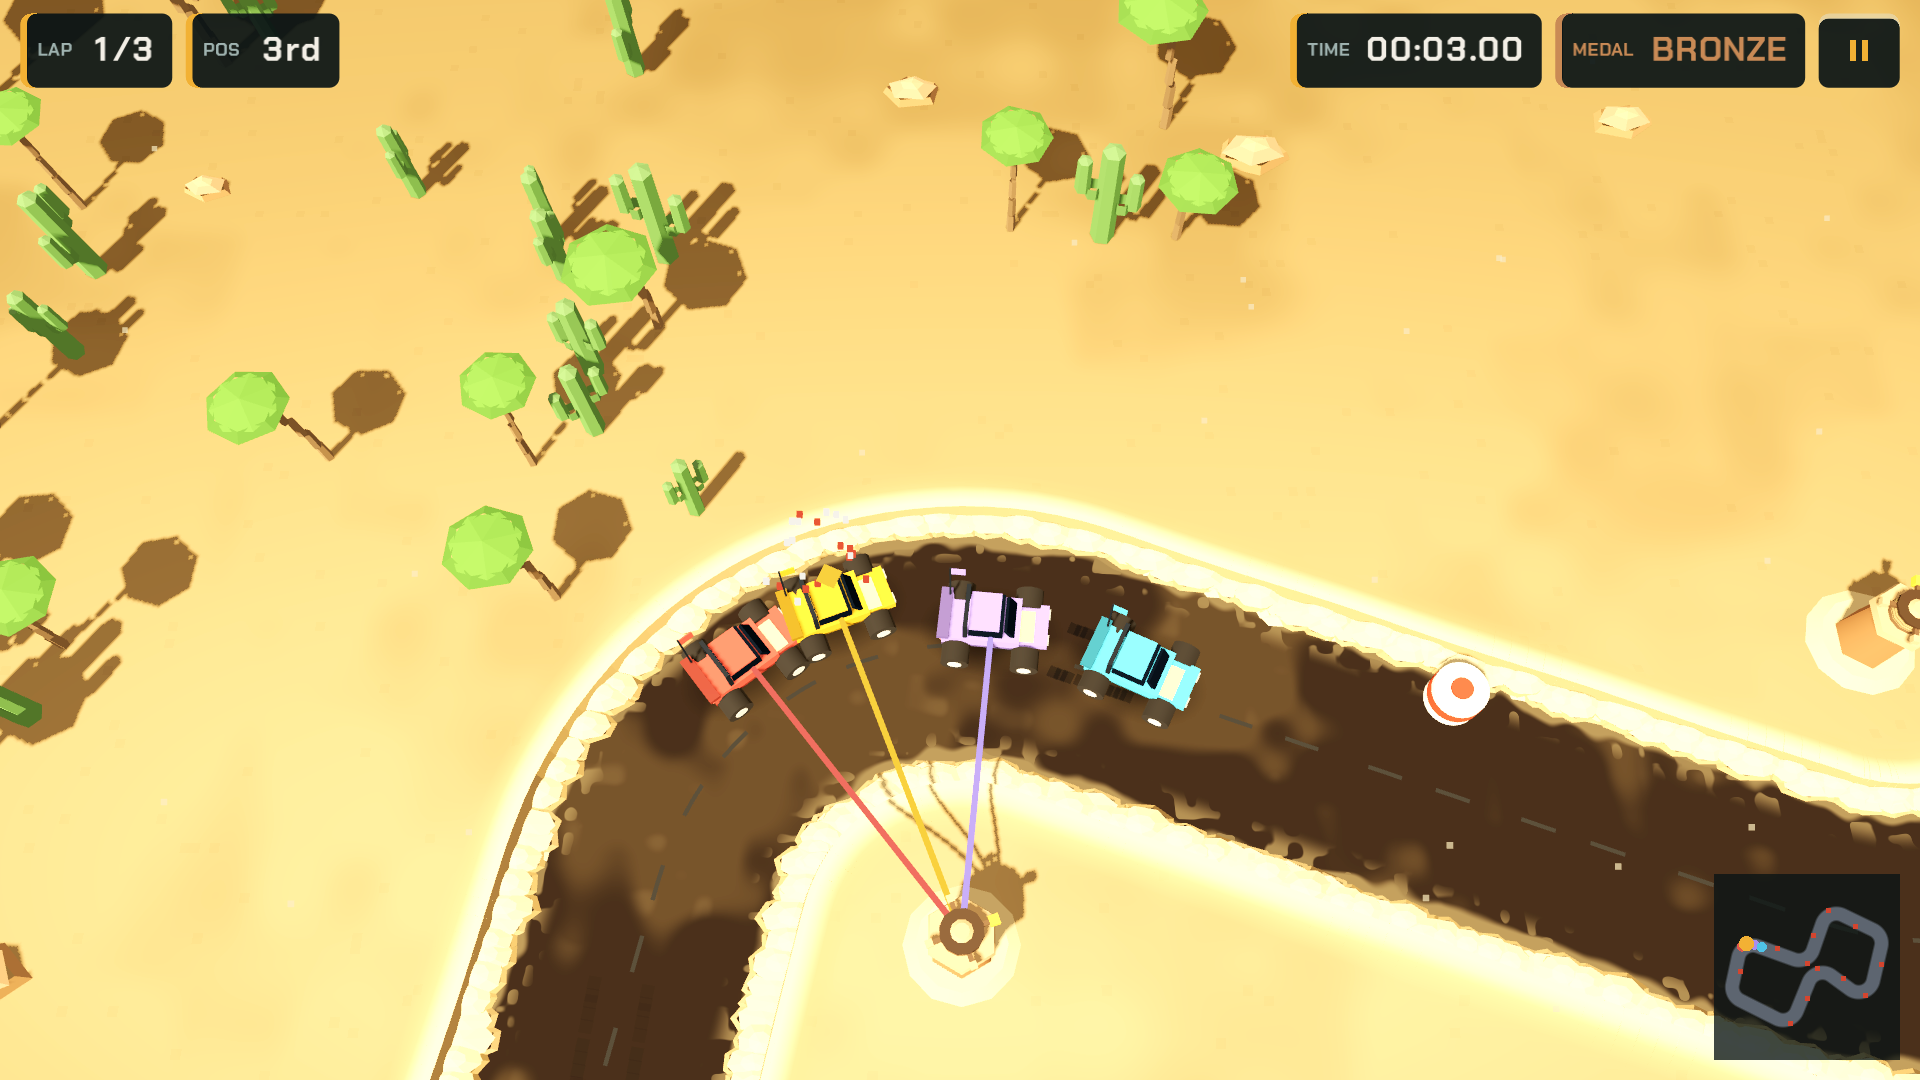
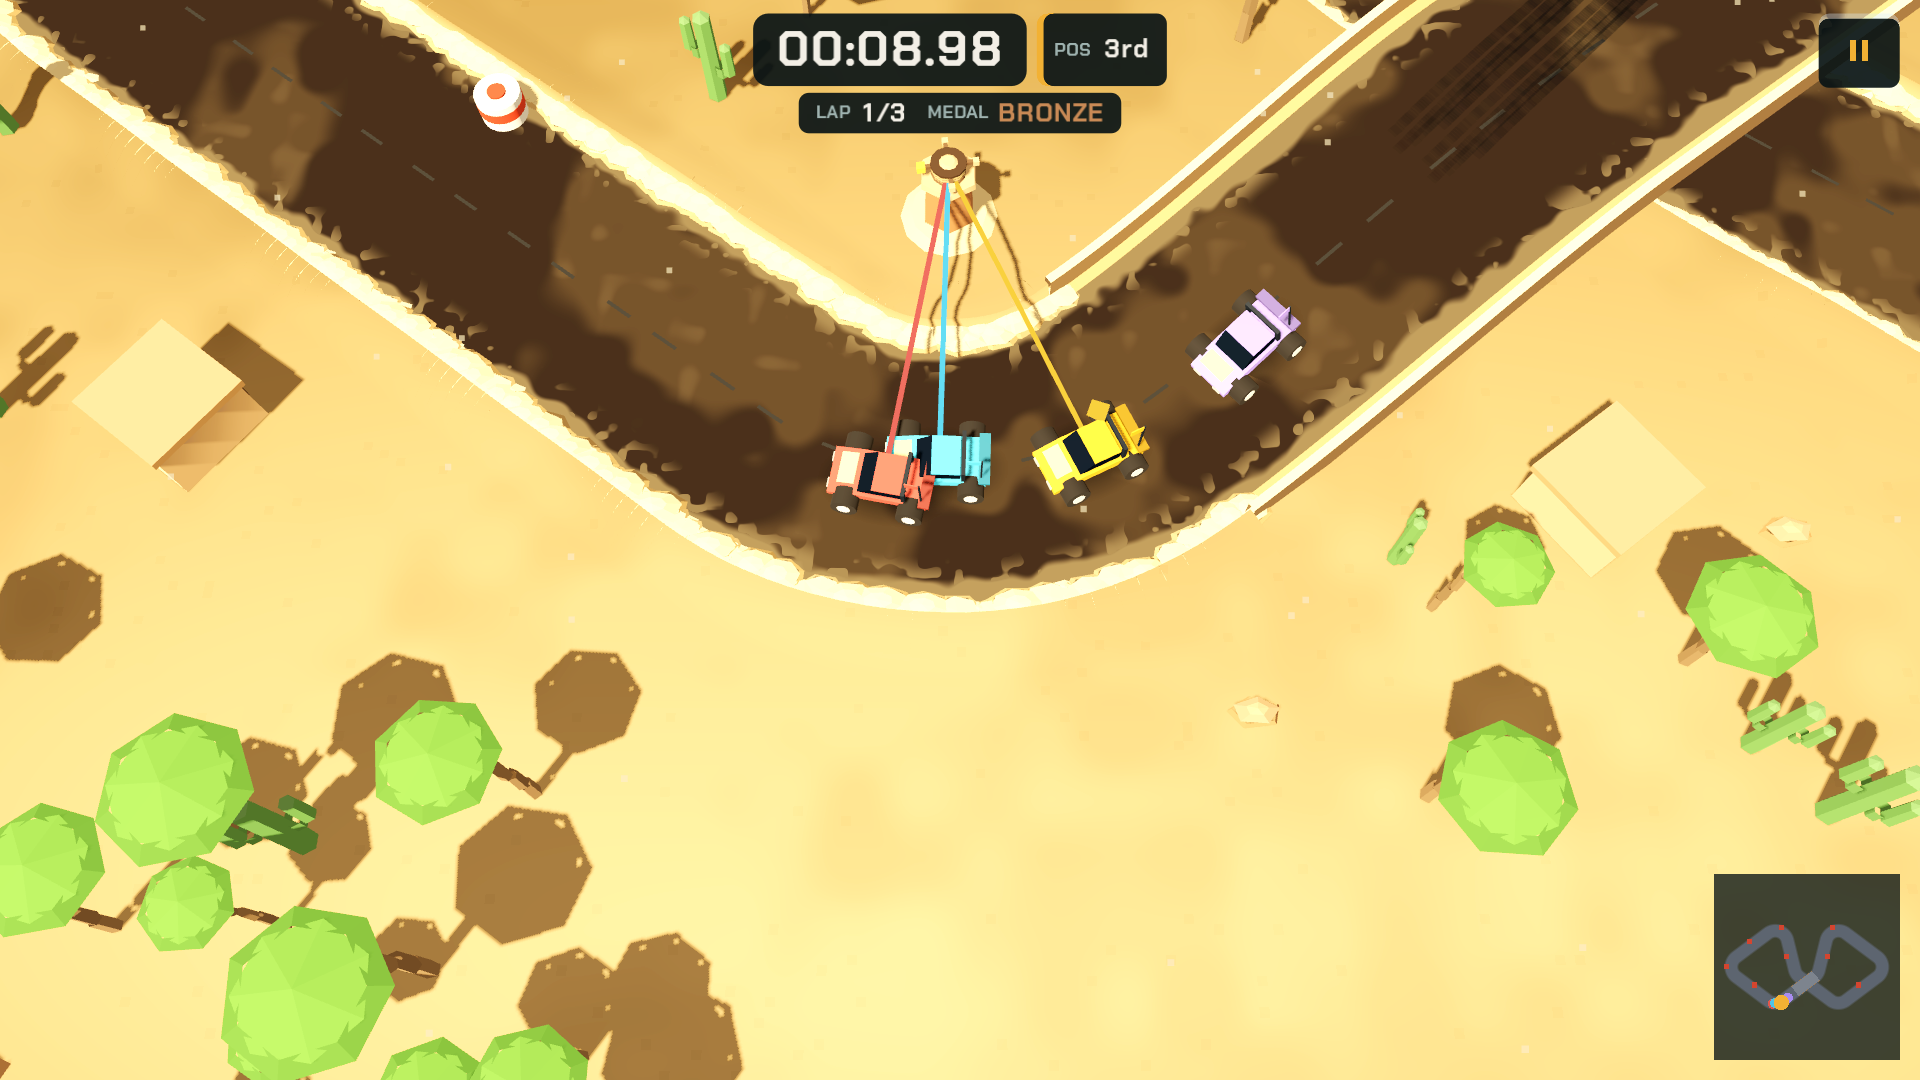
Re-capture Play Store and README screenshots from current main
Shows the wider tracks, seamless banks, compact centre-timer HUD and the
new car shapes. One shot per theme (snow race, forest time trial, sand
obstacles, rock collect), a 2-player race and the campaign world list.
store/README.md now lists the exact --demo commands to re-run them.

Claude-Session: https://claude.ai/code/session_01VxP4fpUj7RonUipZUqbZpJ

diff --git a/store/README.md b/store/README.md
@@ -7,3 +7,27 @@ Google Play listing assets for Tether Racing. Not part of the game (this folder 
 - `screenshots/`: 1920x1080 in-game screenshots (16:9, within Play's 2:1 limit), captured with the `--demo` autopilot.
 
 The Android launcher icons (legacy 192px plus adaptive foreground/background/monochrome 432px) are in `icons/` and set in the Android export preset.
+
+## Re-capturing the screenshots
+
+Each shot comes from the `--demo` autopilot (it saves the menus, then four race frames at
+`secs/4` intervals as `race_1..4.png`). `--fixed-fps 60` makes the race time match the demo
+seconds even on a slow software renderer (headless: wrap in `xvfb-run -a -s "-screen 0 1920x1080x24"`).
+
+```
+SHOT_DIR=/tmp/shots/a godot --path . --resolution 1920x1080 --rendering-driver opengl3 --fixed-fps 60 --disable-vsync -- --demo=<track>,<variant>,<secs>,<mode>,<players>,<theme>
+```
+
+| File | `--demo=` | Frame |
+| --- | --- | --- |
+| 01-race | `0,standard,24,race,1,snow` | race_1 |
+| 02-time-trial | `4,standard,24,trial,1,forest` | race_2 |
+| 03-obstacles | `1,obstacles,24,race,1,sand` | race_2 |
+| 04-collect | `10,collect,20,trial,1,rock` | race_2 |
+| 05-two-players | `8,standard,20,race,2,snow` | race_2 |
+| 06-campaign | any run | menu_world |
+
+README shots: `docs/race-obstacles.png` = 03 at 1280x720, `docs/pause.png` = the 03 run with
+`SHOT_PAUSE=1`, `docs/menu.png` = menu_home, `docs/portrait-collect.png` =
+`9,collect,20,trial,1,snow` at `--resolution 780x1386`, race_3, scaled to 390x693.
+The AI race shifts when gameplay or scenery code changes, so check the frames and retune.

diff --git a/README.md b/README.md
@@ -89,7 +89,7 @@ Captured from the current `main` web build.
 ![Main menu, with a live AI race behind it](docs/menu.png)
 
 <p>
-  <img src="docs/race-obstacles.png" alt="Race on Sidestep, Obstacles variant: four cars tethered to the same tower" width="68%">
+  <img src="docs/race-obstacles.png" alt="Race on Diamond Eight, Obstacles variant: three cars tethered to the same tower" width="68%">
   <img src="docs/portrait-collect.png" alt="Portrait mode: time trial on Starfish, Collect variant" width="30%">
 </p>
 
